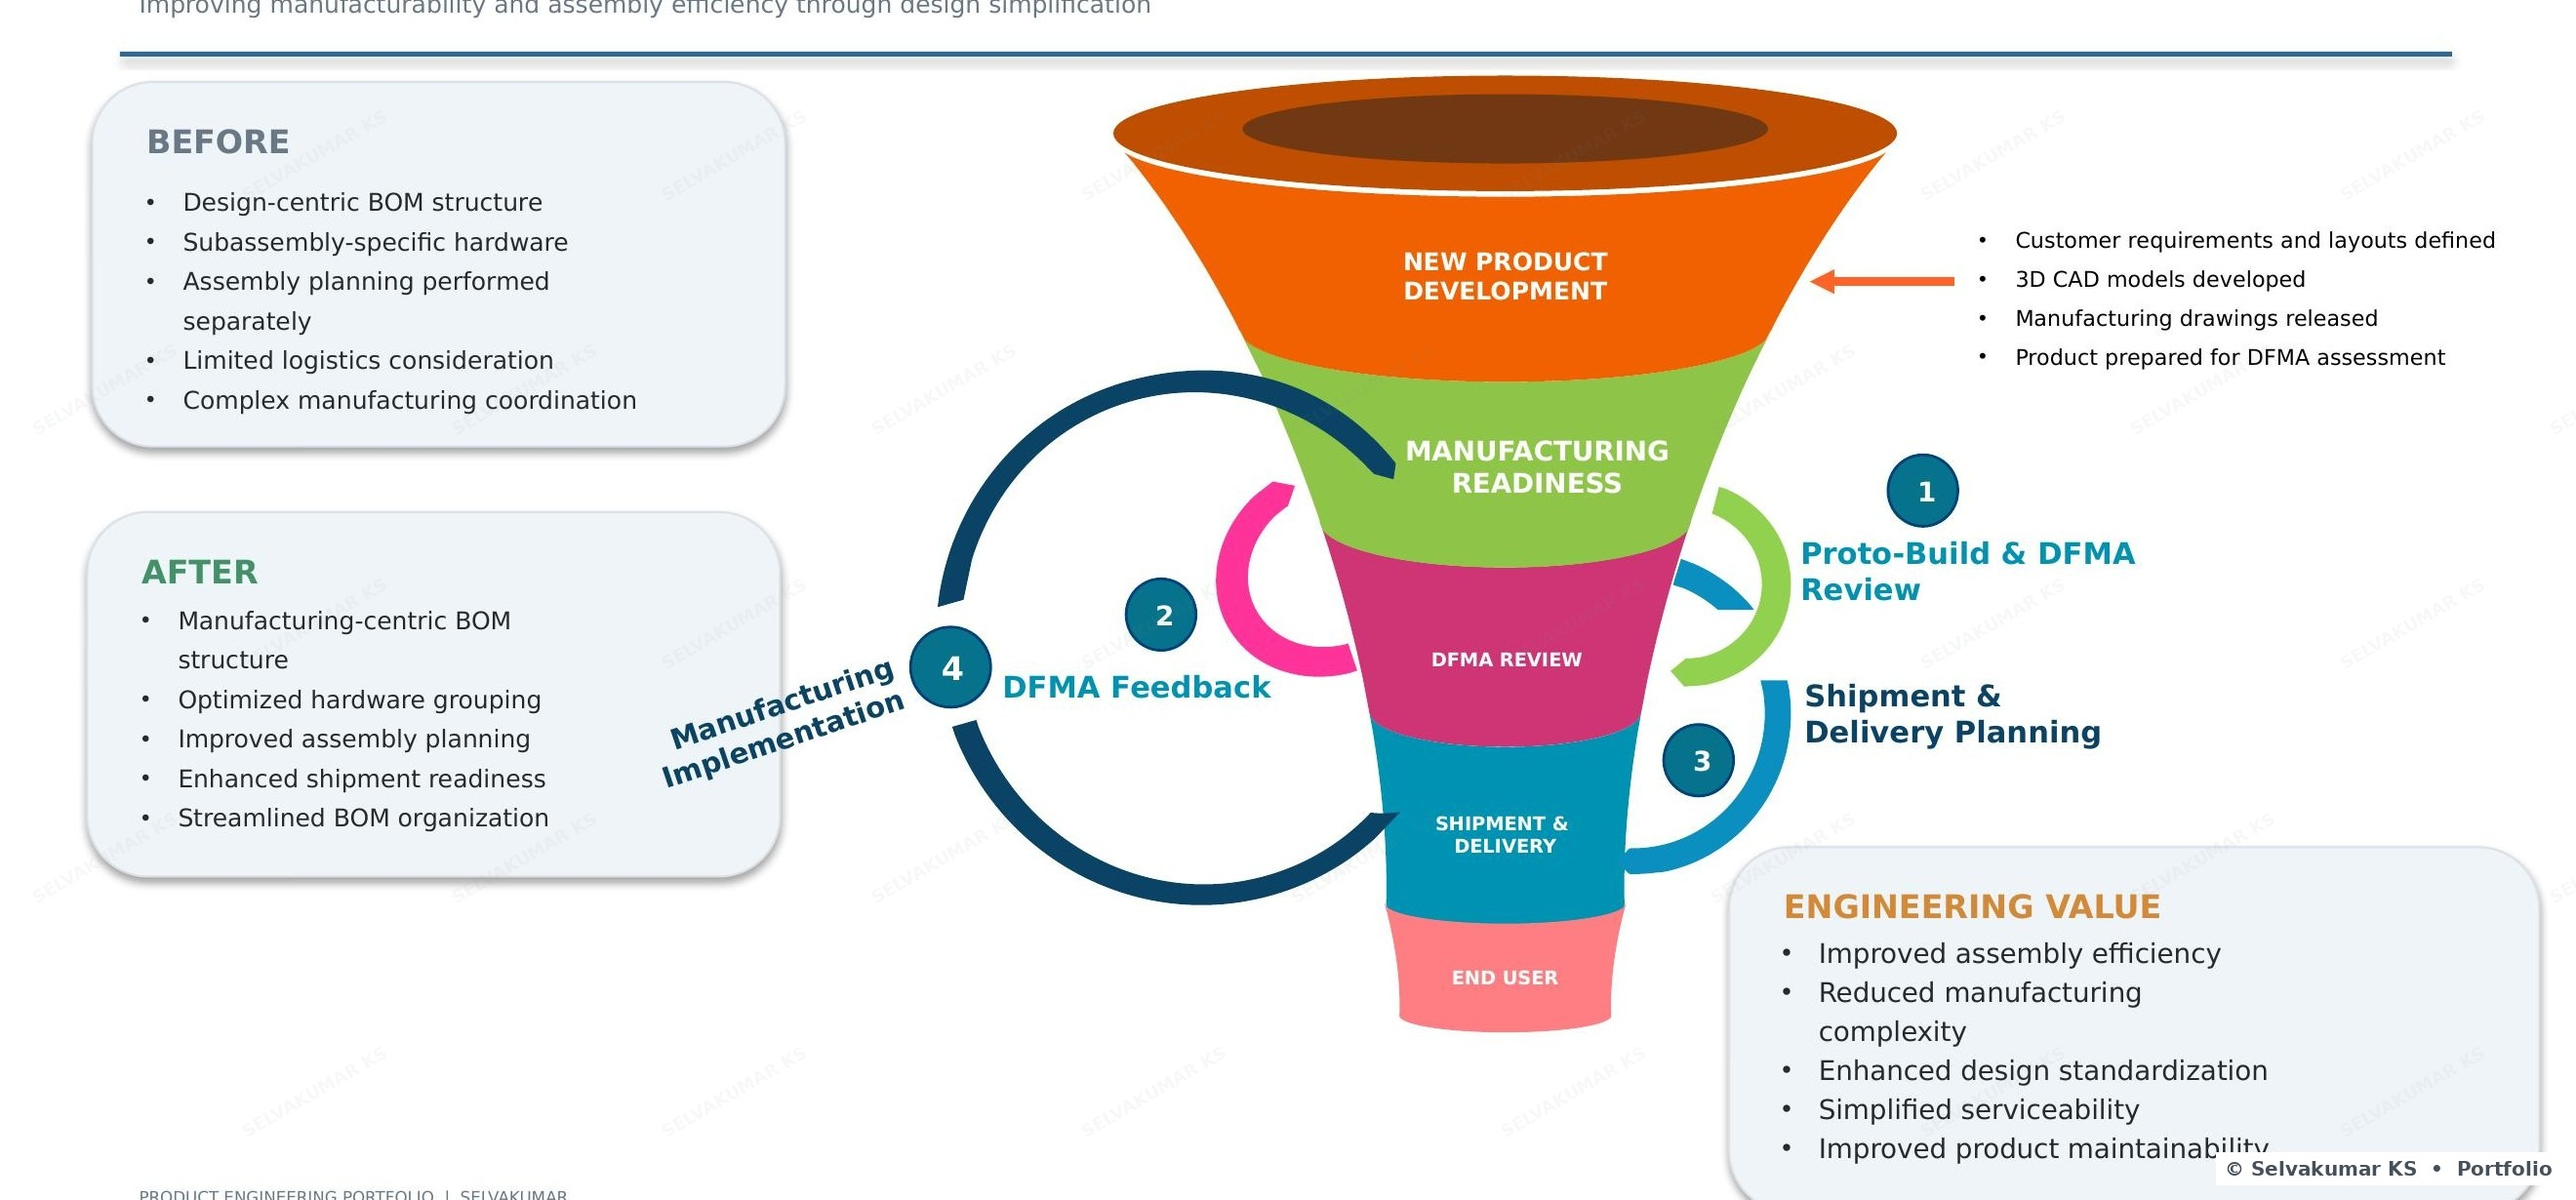
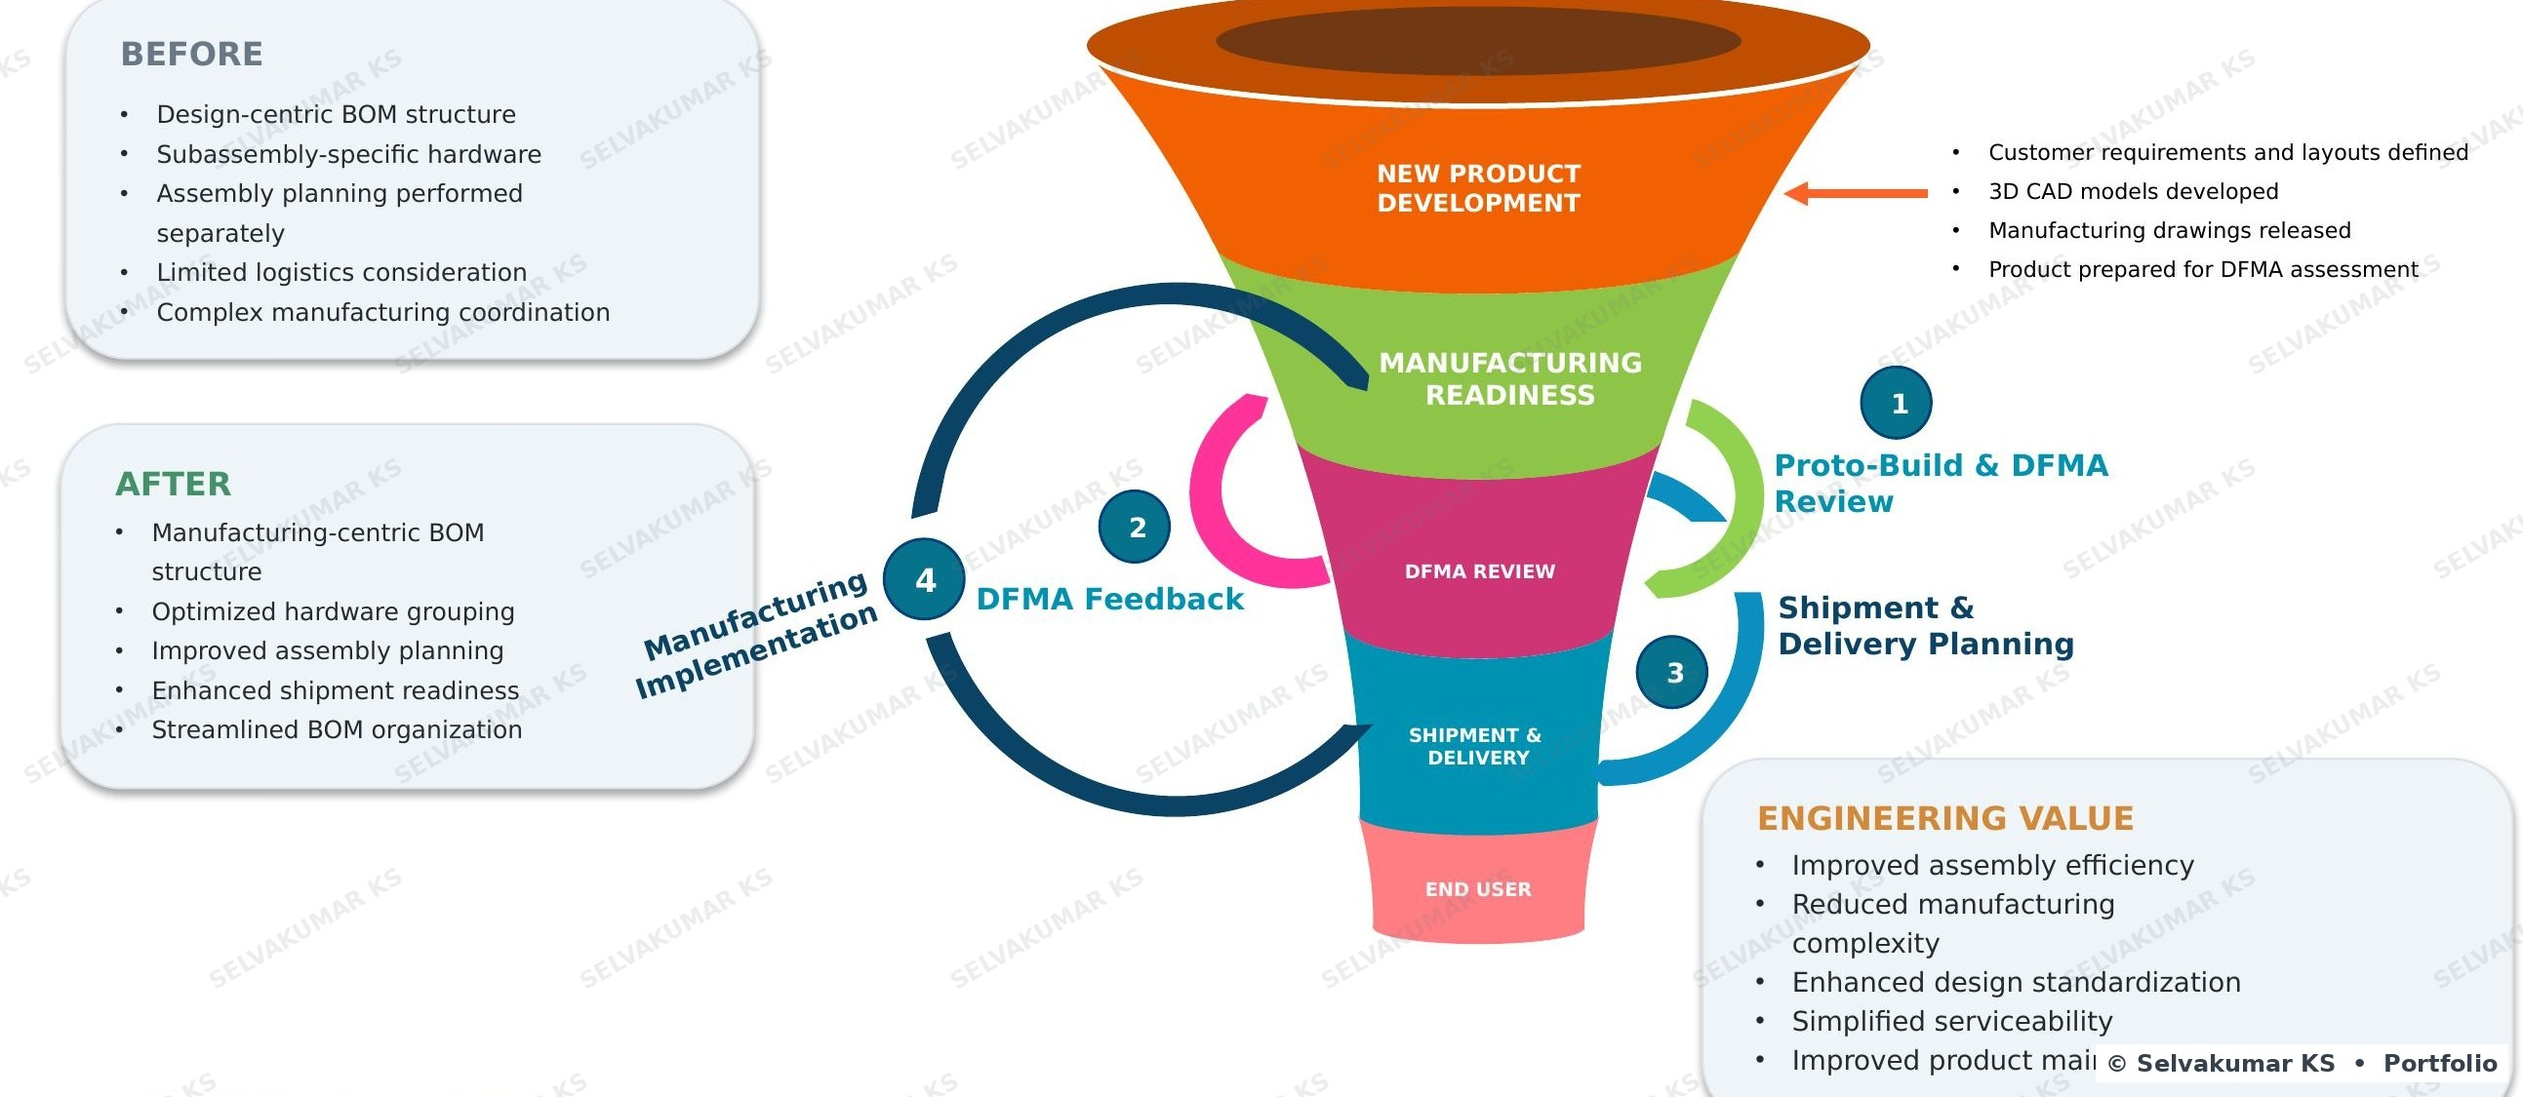
Add files via upload

diff --git a/README.md b/README.md
@@ -7,66 +7,35 @@ portfolio-site/
 ├── README.md
 └── assets/
     ├── headshot.jpg
-    ├── case-studies/
-    │   ├── cs01-thumb.jpg   cs01-full.jpg
-    │   ├── cs02-thumb.jpg   cs02-full.jpg
-    │   ├── cs03-thumb.jpg   cs03-full.jpg
-    │   ├── cs04-thumb.jpg   cs04-full.jpg
-    │   ├── cs05-thumb.jpg   cs05-full.jpg
-    │   └── cs06-thumb.jpg   cs06-full.jpg
-    └── achievements/
-        ├── tech-talk.jpg
-        ├── magazine.jpg
-        └── connected-manager.jpg
+    ├── case-studies/   (6 pairs of -thumb.jpg / -full.jpg, all watermarked)
+    └── achievements/   (tech-talk.jpg, magazine.jpg, connected-manager.jpg)
 ```
-`index.html` references images via these exact relative paths (e.g. `assets/case-studies/cs01-thumb.jpg`),
-so the folders must be uploaded to GitHub with this structure intact — not flattened.
+`index.html` references images via exact relative paths — upload with this structure intact.
 
 ## Publishing on GitHub Pages — folder-safe method
+1. Repo page → **Add file → Upload files**.
+2. Drag `index.html` and `README.md` in as individual files.
+3. Drag the **`assets` folder itself** (the folder icon, not its contents) onto the same drop zone —
+   this is what preserves the `case-studies/` and `achievements/` subfolders.
+4. Confirm GitHub lists all nested files before committing.
+5. **Commit changes.**
 
-GitHub's "Choose your files" button only lets you pick individual files, which is why folders
-can get flattened if you're not careful. To upload real folders, you must **drag the folder icon
-itself** from your computer's file explorer into the browser — do not click into the folder and
-select files from inside it.
-
-1. On your repo page, click **Add file → Upload files**.
-2. Open the unzipped `portfolio-site` folder in a separate File Explorer / Finder window, arranged
-   so you can see both it and the browser at once.
-3. Drag `index.html` and `README.md` into the browser's drop zone — these are single files, so a
-   normal drag works.
-4. Now drag the **`assets` folder itself** (the folder icon, not its contents) from File Explorer /
-   Finder directly onto the same drop zone. Modern Chrome/Edge/Firefox read the whole folder tree
-   when you drop a folder this way, including the `case-studies` and `achievements` subfolders
-   inside it.
-5. Wait a few seconds — GitHub will list out every nested file it found before you commit. Scroll
-   through and confirm you see all of: `headshot.jpg`, `case-studies/cs01-thumb.jpg` ... `cs06-full.jpg`,
-   `achievements/tech-talk.jpg`, `magazine.jpg`, `connected-manager.jpg`.
-6. Scroll down, click **Commit changes**.
-
-If dragging the folder doesn't work in your browser, the reliable fallback is **GitHub Desktop**:
-install it, clone the empty repo to your computer, copy the `portfolio-site` folder's contents
-directly into the cloned folder on disk (via File Explorer, so the nested structure is preserved
-automatically), then use GitHub Desktop to commit and push.
+Fallback if folder-drag doesn't work in your browser: use **GitHub Desktop**, clone the repo, copy
+the folder contents directly on disk, then commit + push from the app.
 
 ## Enable Pages
-
-**Settings → Pages → Build and deployment → Source → Deploy from a branch → main → / (root) → Save.**
-
+**Settings → Pages → Deploy from a branch → main → / (root) → Save.**
 Live at: `https://selvakumar-ks.github.io/`
 
 ## Image protection
-
-All 6 case-study images (thumb + full) carry:
-- A subtle repeating diagonal watermark with your name
-- A corner credit mark ("© Selvakumar KS • Portfolio")
-- Two known-sensitive items already redacted: a coworker's name + project date in CS-01,
-  and a client name + coworker names across several chart labels and the delivery table in CS-06
-
-The site also disables right-click-save and drag-out on all images (basic deterrent only —
-determined users can still access images via browser dev tools, but this stops casual copying).
+- All 6 case-study images (thumb + full) carry a repeating diagonal "SELVAKUMAR KS" watermark plus
+  a corner credit mark — sized to stay visible even at the smaller in-page display size, not just
+  at full resolution.
+- Known-sensitive content already redacted: coworker name + date in CS-01; client name + coworker
+  names across several chart labels and the delivery table in CS-06.
+- Right-click-save and drag-out are disabled on all images site-wide (casual deterrent only).
 
 ## Editing later
-
-Sections are labeled with clear `id`s (`#profile`, `#competencies`, `#experience`,
-`#case-studies`, `#achievements`, `#contact`) — search `index.html` for the heading text to find
-and edit any section. Colors and type live in the `:root` CSS variables near the top of the file.
+Sections have clear `id`s (`#profile`, `#competencies`, `#experience`, `#case-studies`,
+`#achievements`, `#contact`) — search `index.html` by heading text to find and edit any section.
+Colors/type live in the `:root` CSS variables near the top of the file.
